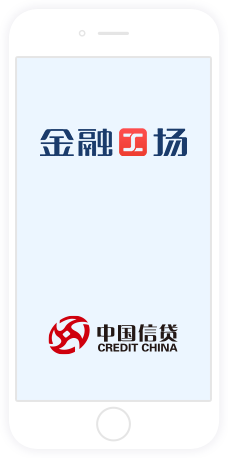
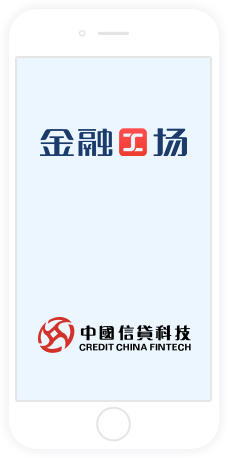
替换logo图

Changed region(s): [[0.1535, 0.6725, 0.8596, 0.7948]]

diff --git a/lib/components/web/header-status-bar.jsx b/lib/components/web/header-status-bar.jsx
@@ -94,7 +94,7 @@ const HeaderStatusBar = React.createClass({
             <div className="header-status-bar">
                 <div className="container">
                     <div className="hsb-xin-dai">
-                        <a href="http://www.creditchina.hk/">中国信贷(08207.HK)</a>
+                        <a href="http://www.creditchina.hk/">中國信貸科技(08207.HK)</a>
                         旗下互联网金融平台
                     </div>
                     {/*<a className="link" href="http://bbs.9888.cn" target="_blank">工友之家</a>*/}

diff --git a/apps/web/notice-corporate-structure/less/index.less b/apps/web/notice-corporate-structure/less/index.less
@@ -169,7 +169,7 @@ body,html{
         width: 1140px;
         height: 226px;
         .sharePic {
-          width: 177px;
+          width: 245px;
           height: 58px;
           display: block;
           margin: 0 auto;
@@ -178,6 +178,7 @@ body,html{
         .des {
           text-align: center;
           color: #999999;
+          padding-left: 28px;
         }
       }
     }

diff --git a/apps/web/notice-corporate-structure/index.html b/apps/web/notice-corporate-structure/index.html
@@ -79,7 +79,7 @@
                 实际控股人与持股5%以上的股东名单
             </div>
             <div class="shareContent">
-                <img src="images/logo2.png" alt="" class="sharePic">
+                <img src="images/logo.png" alt="" class="sharePic">
                 <p class="des">中国信贷科技控股有限公司</p>
             </div>
         </div>

diff --git a/apps/web/guide/less/index.less b/apps/web/guide/less/index.less
@@ -31,7 +31,7 @@
   .assistant-title {
     .assistant-title-block {
       margin: 0 auto;
-      width: 285px;
+      width: 350px;
       height: 35px;
       font-size: 18px;
       line-height: 35px;
@@ -39,7 +39,6 @@
       border-radius: 5px;
       color: #fff;
       background-color: #3b4b7e;
-
       img {
         position: relative;
         top: 6px;

diff --git a/apps/web/guide/index.html b/apps/web/guide/index.html
@@ -16,7 +16,7 @@
         <div class="assistant-title">
             <div class="assistant-title-block">
                 <img src="images/duideAbout-ico1.png">
-                中国信贷旗下互联网金融平台
+                中國信貸科技旗下旗下互联网金融平台
             </div>
         </div>
         <p class="understand-text">
